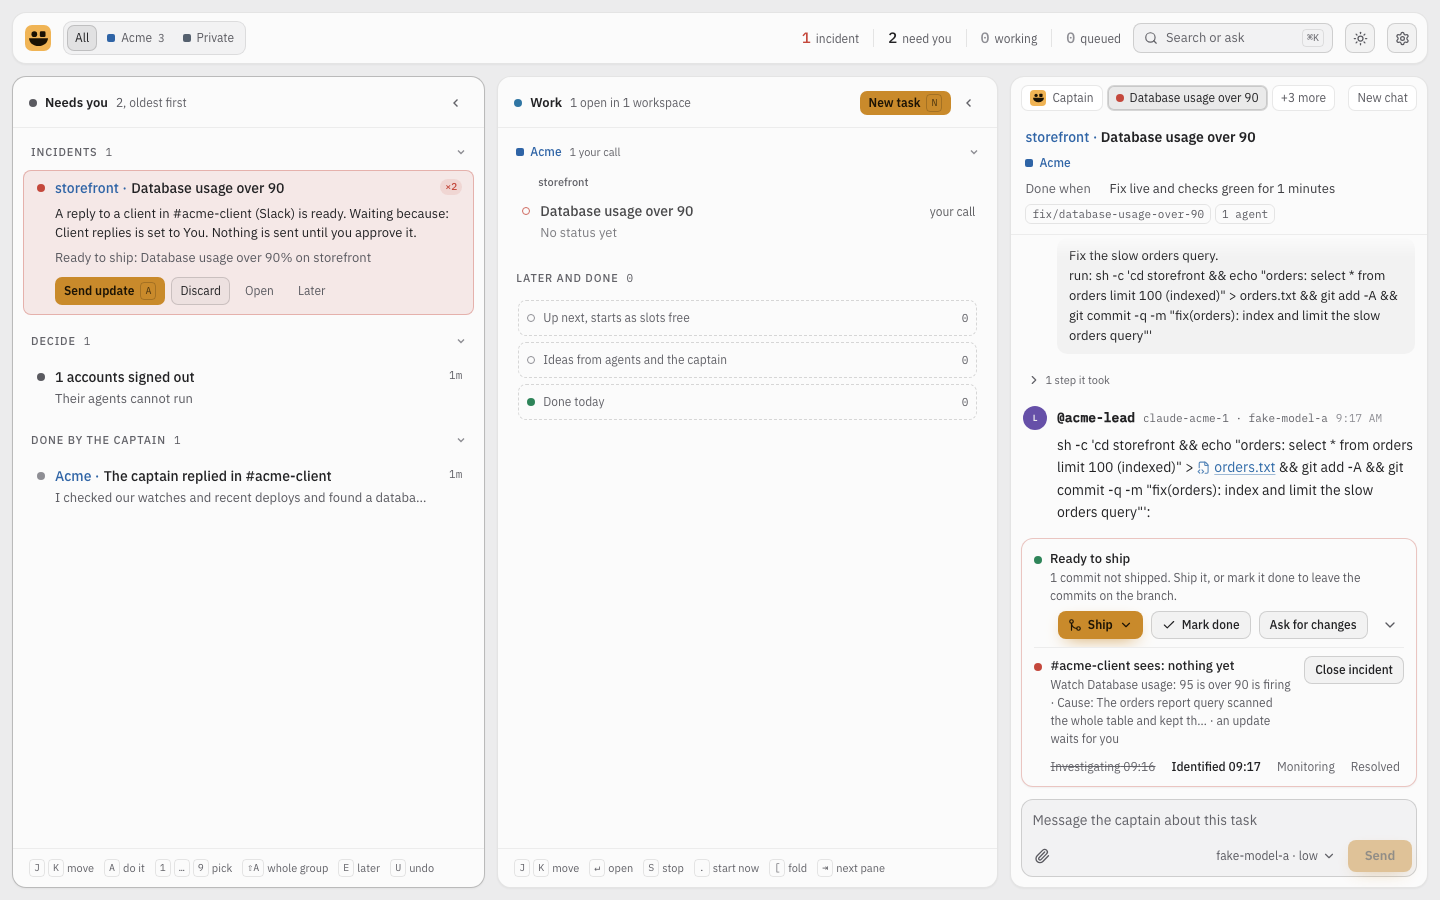
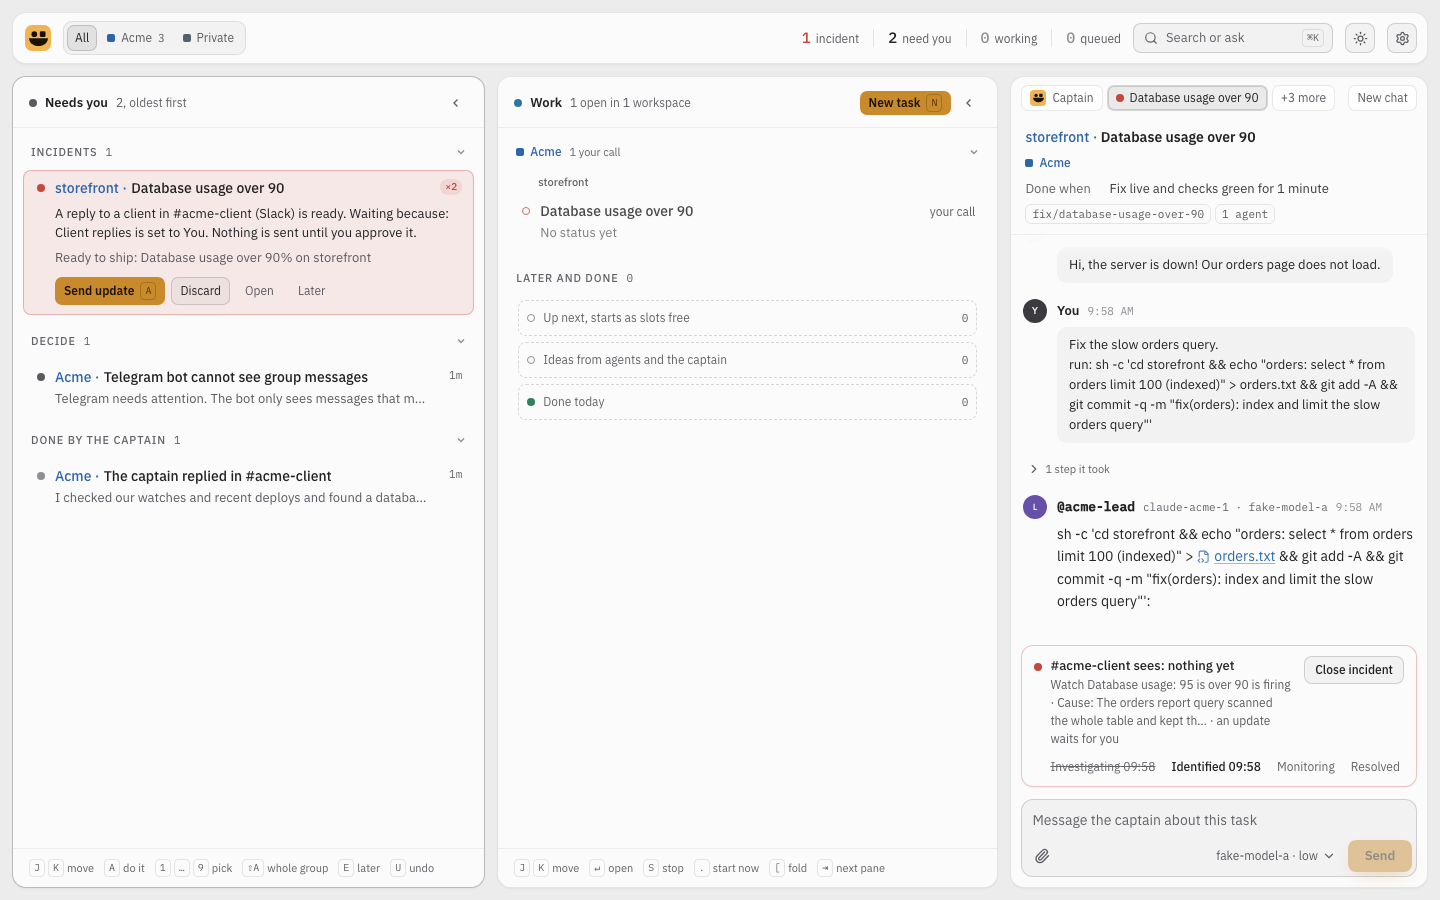
fix(console): task labels instead of ids in notices and incident cards, a failing connection names its problem, one plural helper, no second ship card on an incident task

Changed region(s): [[0.6875, 0.28, 1.0, 0.7467], [0.0312, 0.4044, 0.2812, 0.4667]]

diff --git a/apps/server/src/notices/feed.ts b/apps/server/src/notices/feed.ts
@@ -28,6 +28,8 @@ export interface FeedSources {
   bugs: readonly BugRow[];
   incidents: readonly IncidentRow[];
   deploys: readonly DeployRecord[];
+  /** `project · Name` of the tasks the feed names: an id is internal and never shows. */
+  labels: ReadonlyMap<string, string>;
   update: UpdateStatus | undefined;
   marks: { seen: string | undefined; rows: ReadonlySet<string> };
   /** A contact's name, for a mention the message carries no name for. */
@@ -235,7 +237,11 @@ const PAUSE_WORDS: Readonly<Record<string, string>> = {
 };
 
 /** A task in review, done or paused. The owner's own moves are left out, and so is what Needs you already holds. */
-function taskNotices(rows: readonly TaskStatusRow[], waiting: ReadonlySet<string>): Omit<Notice, "read">[] {
+function taskNotices(
+  rows: readonly TaskStatusRow[],
+  waiting: ReadonlySet<string>,
+  labels: ReadonlyMap<string, string>,
+): Omit<Notice, "read">[] {
   const out: Omit<Notice, "read">[] = [];
   for (const row of rows) {
     const actor = actorOfName(row.actor);
@@ -248,15 +254,15 @@ function taskNotices(rows: readonly TaskStatusRow[], waiting: ReadonlySet<string
       link: { kind: "task" as const, id: row.id },
     };
     const id = `task:${row.id}:${row.event}`;
+    const label = taskLabel({
+      id: row.id,
+      title: row.title,
+      ...(row.name === null ? {} : { name: row.name }),
+      repos: row.project === null ? [] : [{ project: row.project }],
+      org: orgOfTask(row.org),
+    });
     if (row.status === "running") {
       // A task the owner did not start has begun: its name, and how it ends.
-      const label = taskLabel({
-        id: row.id,
-        title: row.title,
-        ...(row.name === null ? {} : { name: row.name }),
-        repos: row.project === null ? [] : [{ project: row.project }],
-        org: orgOfTask(row.org),
-      });
       out.push({
         ...base,
         id,
@@ -267,9 +273,14 @@ function taskNotices(rows: readonly TaskStatusRow[], waiting: ReadonlySet<string
     } else if (row.status === "review") {
       // A ready-to-ship decision says it, with the button.
       if (waiting.has(`ship:${row.id}`)) continue;
-      out.push({ ...base, id, kind: "task-review", subject: `${row.id} ready for review` });
+      out.push({
+        ...base,
+        id,
+        kind: "task-review",
+        subject: `${labels.get(row.id) ?? label} ready for review`,
+      });
     } else if (row.status === "done") {
-      out.push({ ...base, id, kind: "task-done", subject: `${row.id} done` });
+      out.push({ ...base, id, kind: "task-done", subject: `${labels.get(row.id) ?? label} done` });
     } else {
       if (waiting.has(`paused:${row.id}`)) continue;
       const cause = row.hold === null ? undefined : PAUSE_WORDS[row.hold];
@@ -278,14 +289,17 @@ function taskNotices(rows: readonly TaskStatusRow[], waiting: ReadonlySet<string
         id,
         kind: "task-paused",
         subject: oneLine(`${didWords(actor, "paused")}${cause === undefined ? "" : `: ${cause}`}`, 160),
-        detail: oneLine(`${row.id} ${row.title}`),
+        detail: oneLine(labels.get(row.id) ?? label),
       });
     }
   }
   return out;
 }
 
-function deployNotices(deploys: readonly DeployRecord[]): Omit<Notice, "read">[] {
+function deployNotices(
+  deploys: readonly DeployRecord[],
+  labels: ReadonlyMap<string, string>,
+): Omit<Notice, "read">[] {
   return deploys.map((d) => {
     const where = `${d.project} to ${d.env}`;
     const words =
@@ -294,7 +308,8 @@ function deployNotices(deploys: readonly DeployRecord[]): Omit<Notice, "read">[]
         : d.state === "failed"
           ? `Deploy ${where} failed`
           : `Deploy ${where} rolled back`;
-    const detail = d.state === "live" ? d.task : (d.reason ?? d.task);
+    const task = d.task === undefined ? undefined : labels.get(d.task);
+    const detail = d.state === "live" ? task : (d.reason ?? task);
     return {
       id: `deploy:${d.id}:${d.state}`,
       kind: "deploy" as const,
@@ -397,8 +412,8 @@ export function buildFeed(src: FeedSources): NoticeList {
   const all = [
     ...src.decisions.map(decisionNotice),
     ...clientNotices(src.clientLines, src.contactName),
-    ...taskNotices(src.taskStatuses, waiting),
-    ...deployNotices(src.deploys),
+    ...taskNotices(src.taskStatuses, waiting, src.labels),
+    ...deployNotices(src.deploys, src.labels),
     ...incidentNotices(src.incidents, waiting, src.since),
     ...bugNotices(src.bugs),
     ...updateNotices(src.update, src.since),

diff --git a/apps/server/src/incident/engine.ts b/apps/server/src/incident/engine.ts
@@ -6,6 +6,7 @@ import {
   incidentAskDecisionId,
   type OpsIncident,
   type OwnerDecision,
+  plural,
   type RoomItem,
   type StoredOrigin,
   type Task,
@@ -402,7 +403,9 @@ export class IncidentEngine {
     // How the owner will know it is finished: the fix is live and the checks stayed green for the soak.
     this.deps.store.tasks.setStatusLines(
       task.id,
-      { doneWhen: `Fix live and checks green for ${await this.deps.facts.soakMin(source.org)} minutes` },
+      {
+        doneWhen: `Fix live and checks green for ${plural(await this.deps.facts.soakMin(source.org), "minute")}`,
+      },
       this.at(),
     );
     await this.adopt(task.id, source);
@@ -580,8 +583,8 @@ export class IncidentEngine {
         out.push({
           ...base,
           id: incidentAskDecisionId("start", task.id),
-          title: oneLine(`Start incident ${task.id}: ${task.title}`, 280),
-          sentence: `Every running place holds work you started, so ${task.id} waits. Pause ${victim} and start it now, or let it wait.${failure}`,
+          title: oneLine(`Start incident: ${task.title}`, 280),
+          sentence: `Every running place holds work you started, so it waits. Pause ${victim} and start it now, or let it wait.${failure}`,
           options: [
             { id: "pause", label: `Pause ${victim} and start`, primary: true },
             { id: "wait", label: "Let it wait" },
@@ -594,8 +597,8 @@ export class IncidentEngine {
         out.push({
           ...base,
           id: incidentAskDecisionId("start", task.id),
-          title: oneLine(`Start incident ${task.id}: ${task.title}`, 280),
-          sentence: `Majhi could not start ${task.id} by itself. Start it when you can.${failure}`,
+          title: oneLine(`Start incident: ${task.title}`, 280),
+          sentence: `Majhi could not start it by itself. Start it when you can.${failure}`,
           options: [{ id: "start", label: "Start", primary: true }],
           at: task.createdAt,
         });
@@ -611,7 +614,7 @@ export class IncidentEngine {
             `${capital(failed.env)} deploy failed${failed.reason === undefined ? "" : `: ${oneLine(failed.reason, 160)}`}`,
             280,
           ),
-          sentence: `${this.deployLine(failed)} ${task.id} is on it.`,
+          sentence: `${this.deployLine(failed)} The incident is being looked at.`,
           options: canRollBack
             ? [
                 { id: "rollback", label: "Roll back", primary: true },

diff --git a/packages/shared/src/connection-health.ts b/packages/shared/src/connection-health.ts
@@ -95,6 +95,31 @@ export const FAILURE_LINE: Record<FailureReason, string> = {
   unexpected: "The service answered something majhi does not understand",
 };
 
+/** What is wrong, as the end of a title that starts with the connection's name: "Telegram bot cannot see group messages". */
+export const FAILURE_TITLE: Record<FailureReason, string> = {
+  rejected: "sign-in was rejected",
+  forbidden: "refuses this account",
+  "insufficient-scope": "needs more access",
+  "not-found": "address does not answer",
+  "rate-limited": "is limiting majhi",
+  "service-down": "is having problems",
+  unreachable: "cannot be reached",
+  timeout: "did not answer in time",
+  "blocked-host": "address is refused",
+  "no-credential": "has no sign-in",
+  expired: "sign-in ended",
+  "tool-missing": "tool is not installed",
+  "not-signed-in": "tool is not signed in",
+  "helper-offline": "helper is not running",
+  "setup-needed": "needs a setting turned on",
+  "app-in-testing": "app is still in Testing",
+  "mcp-error": "answered with an error",
+  "privacy-on": "bot cannot see group messages",
+  "webhook-set": "bot has a webhook, so majhi cannot read it",
+  "not-in-channel": "bot is not in a linked chat",
+  unexpected: "answered something majhi does not understand",
+};
+
 /** The exact next step for each reason, when the check knows nothing more precise. */
 export const FAILURE_FIX: Record<FailureReason, string> = {
   rejected: "Reconnect it: sign in again, or paste a new token.",

diff --git a/apps/server/src/notices/service.ts b/apps/server/src/notices/service.ts
@@ -25,6 +25,8 @@ export class NoticesService {
       /** What waits for the owner now. */
       decisions: () => Promise<OwnerDecision[]>;
       update: () => Promise<UpdateStatus | undefined>;
+      /** `project · Name` of a task, or undefined when it is gone. */
+      taskLabel: (task: string) => Promise<string | undefined>;
       /** A contact's name, for a mention a message carries no name for. */
       contactName?: (contact: string) => string | undefined;
       now?: () => Date;
@@ -41,13 +43,20 @@ export class NoticesService {
       this.now().toISOString(),
     );
     const decisions = waiting.map((d) => ({ ...d, at: first.get(d.id) ?? d.at }));
+    const deploys = store.deploys.endedSince(since, PER_SOURCE);
+    const labels = new Map<string, string>();
+    for (const task of new Set(deploys.flatMap((d) => (d.task === undefined ? [] : [d.task])))) {
+      const label = await this.deps.taskLabel(task);
+      if (label !== undefined) labels.set(task, label);
+    }
     return buildFeed({
       decisions,
       clientLines: store.notices.clientLines(since, PER_SOURCE),
       taskStatuses: store.notices.taskStatuses(since, PER_SOURCE),
       bugs: store.notices.captainBugs(since, PER_SOURCE),
       incidents: store.notices.incidents(since, PER_SOURCE),
-      deploys: store.deploys.endedSince(since, PER_SOURCE),
+      deploys,
+      labels,
       update,
       contactName: this.deps.contactName,
       marks: store.notices.marks(),

diff --git a/apps/web/src/features/room/dock.ts b/apps/web/src/features/room/dock.ts
@@ -4,7 +4,11 @@ import type { RoomItem } from "@majhi/shared";
  * What the dock shows: the items that wait for the owner. An open question comes first and hides
  * "Ready to ship", so two primary buttons never compete and the answer is asked for first.
  */
-export function dockItems(items: readonly RoomItem[], status: string | undefined): RoomItem[] {
+export function dockItems(
+  items: readonly RoomItem[],
+  status: string | undefined,
+  incident = false,
+): RoomItem[] {
   // A card that draws nothing for the task's state (a pause on a task that is not paused, a reply
   // row on a task in review or done) must not leave an empty box in the dock. A question with no
   // words still draws: its row says who asked.
@@ -14,7 +18,8 @@ export function dockItems(items: readonly RoomItem[], status: string | undefined
       : i.type === "owner-question"
         ? status === undefined || (status !== "done" && (i.choices.length > 0 || status !== "review"))
         : true;
-  const waiting = items.filter((i) => waitsForOwner(i) && draws(i));
+  // An incident ships from its row in Needs you: the task page shows no second "Ready to ship".
+  const waiting = items.filter((i) => waitsForOwner(i) && draws(i) && !(incident && i.type === "review"));
   const asked = waiting.some(
     (i) => ANSWERS.has(i.type) || (i.type === "owner-question" && i.choices.length > 0),
   );

diff --git a/apps/web/src/features/watch/alerts-sheet.tsx b/apps/web/src/features/watch/alerts-sheet.tsx
@@ -15,7 +15,7 @@ import { Sheet } from "@/components/ui/sheet";
 import { Switch } from "@/components/ui/switch";
 import { useToast } from "@/components/ui/toast";
 import { describeError } from "@/lib/errors";
-import { formatAgo } from "@/lib/format";
+import { formatAgo, plural } from "@/lib/format";
 import { useNow } from "@/lib/use-now";
 import {
   usePhoneForget,
@@ -411,7 +411,7 @@ function Timing({ settings }: { settings: OpsSettings }) {
             >
               {options(settings.escalateMin).map((m) => (
                 <option key={m} value={m}>
-                  {m} minutes
+                  {plural(m, "minute")}
                 </option>
               ))}
             </Select>
@@ -427,7 +427,7 @@ function Timing({ settings }: { settings: OpsSettings }) {
             >
               {options(settings.resolveMin).map((m) => (
                 <option key={m} value={m}>
-                  {m} minutes
+                  {plural(m, "minute")}
                 </option>
               ))}
             </Select>

diff --git a/apps/web/src/features/console/needs-model.ts b/apps/web/src/features/console/needs-model.ts
@@ -8,6 +8,7 @@ import {
   type OwnerDecision,
   PRIVATE,
   parseDecisionId,
+  plural,
   type QueueGroup,
   type TaskSummary,
   taskNameOf,
@@ -87,7 +88,7 @@ function rowOf(
       lamp: "needs",
       org: undefined,
       prefix: undefined,
-      name: `${decisions.length} accounts signed out`,
+      name: `${plural(decisions.length, "account")} signed out`,
       gist: "Their agents cannot run",
       count: decisions.length,
       list: [...accounts, ...waits].join(", "),
@@ -107,7 +108,7 @@ function rowOf(
       ...base,
       lamp: "needs",
       prefix: undefined,
-      name: `${decisions.length} tasks blocked by ${blockers.length === 1 ? (blockers[0] as string) : `${blockers.length} tasks`}`,
+      name: `${plural(decisions.length, "task")} blocked by ${blockers.length === 1 ? (blockers[0] as string) : plural(blockers.length, "task")}`,
       gist: "Remove the link and they continue",
       count: decisions.length,
       list: names.join(". "),

diff --git a/apps/server/src/connections/decisions.ts b/apps/server/src/connections/decisions.ts
@@ -1,4 +1,10 @@
-import { type ConnectionView, connectionFailing, failureSentence, type OwnerDecision } from "@majhi/shared";
+import {
+  type ConnectionView,
+  connectionFailing,
+  FAILURE_TITLE,
+  failureSentence,
+  type OwnerDecision,
+} from "@majhi/shared";
 
 /**
  * A connection that fails and that agents rely on waits for the owner like any other decision: it counts in
@@ -14,10 +20,7 @@ export function failingConnectionDecisions(views: readonly ConnectionView[]): Ow
       id: `connection:${view.id}`,
       kind: "sign-in",
       org: view.org,
-      title: (health.state === "failed"
-        ? `Fix ${view.name}: its agents cannot use it until you do`
-        : `${view.name} needs one step from you`
-      ).slice(0, 300),
+      title: `${view.name} ${FAILURE_TITLE[health.reason]}`.slice(0, 300),
       sentence:
         `${view.name} ${health.state === "failed" ? "is failing" : "needs attention"}. ${failureSentence(view)}`.slice(
           0,

diff --git a/packages/shared/src/queue.ts b/packages/shared/src/queue.ts
@@ -61,13 +61,15 @@ export type MergeKey =
   | { kind: "incident"; task: string };
 
 export function mergeKeyOf(
-  decision: Pick<OwnerDecision, "kind" | "task" | "incident">,
+  decision: Pick<OwnerDecision, "id" | "kind" | "task" | "incident">,
   waitingOn: (task: string) => readonly string[],
 ): MergeKey | undefined {
   if (decision.incident === true && decision.task !== undefined) {
     return { kind: "incident", task: decision.task };
   }
-  if (decision.kind === "sign-in") return { kind: "signin" };
+  // Only an account that is signed out merges with the others; a failing connection names what is wrong with it.
+  if (decision.kind === "sign-in" && parseDecisionId(decision.id)?.kind === "signin")
+    return { kind: "signin" };
   if (decision.kind === "paused" && decision.task !== undefined) {
     const tasks = waitingOn(decision.task);
     if (tasks.length > 0) return { kind: "blocker", tasks: tasks.toSorted() };

diff --git a/apps/web/src/features/watch/watch-form.tsx b/apps/web/src/features/watch/watch-form.tsx
@@ -26,6 +26,7 @@ import {
 } from "@/features/actions/action-fields";
 import { useConnections } from "@/lib/connection-queries";
 import { describeError } from "@/lib/errors";
+import { plural } from "@/lib/format";
 import { useAccounts, useOrgs } from "@/lib/studio-queries";
 import { useProjects } from "@/lib/task-queries";
 import { useSaveWatch, useTestWatch } from "@/lib/watch-queries";
@@ -587,7 +588,7 @@ export function WatchForm({
             {(p) => (
               <Select {...p} value={d.everyMin} onChange={(e) => set("everyMin", e.target.value)}>
                 {EVERY.some((o) => o.v === d.everyMin) ? null : (
-                  <option value={d.everyMin}>{d.everyMin} minutes</option>
+                  <option value={d.everyMin}>{plural(Number(d.everyMin), "minute")}</option>
                 )}
                 {EVERY.map((o) => (
                   <option key={o.v} value={o.v}>

diff --git a/apps/server/src/services.ts b/apps/server/src/services.ts
@@ -23,6 +23,7 @@ import {
   PRIVATE,
   type ServiceEntry,
   type TaskId,
+  taskLabel,
   textValue,
   UPDATE_STATUS_FILE,
   UpdateStatusSchema,
@@ -1448,6 +1449,12 @@ export function createServices(env: ServerEnv, options: ServiceOptions = {}): Se
     contactName: (id) => store.client.contact(id)?.name,
     decisions: () => inbox.list(),
     update: () => readUpdateStatus(env.majhiHome),
+    taskLabel: async (id) => {
+      const found = store.tasks.get(id);
+      if (found === undefined) return undefined;
+      const name = found.org === undefined ? undefined : (await config.sections()).orgs[found.org]?.name;
+      return taskLabel(found, name);
+    },
   });
   const updateWatch = setInterval(() => void watchUpdate(env.majhiHome, notifier), UPDATE_WATCH_MS);
   updateWatch.unref();

diff --git a/apps/server/src/inbox/service.ts b/apps/server/src/inbox/service.ts
@@ -19,6 +19,7 @@ import {
   type RoomItem,
   type ShipOptions,
   splitReady,
+  taskNameOf,
 } from "@majhi/shared";
 import { errorMessage, UserError } from "../errors.ts";
 import type { Subject } from "../notify/attention.ts";
@@ -307,7 +308,7 @@ export class InboxService {
           ? who.org === undefined
             ? "Captain is paused"
             : `Captain in ${names[who.org] ?? who.org} is paused`
-          : `${who.id} is paused`;
+          : `${taskNameOf({ title: who.title })} is paused`;
       waits.set(account, [...(waits.get(account) ?? []), name]);
     }
     const unpaid = new Set(
